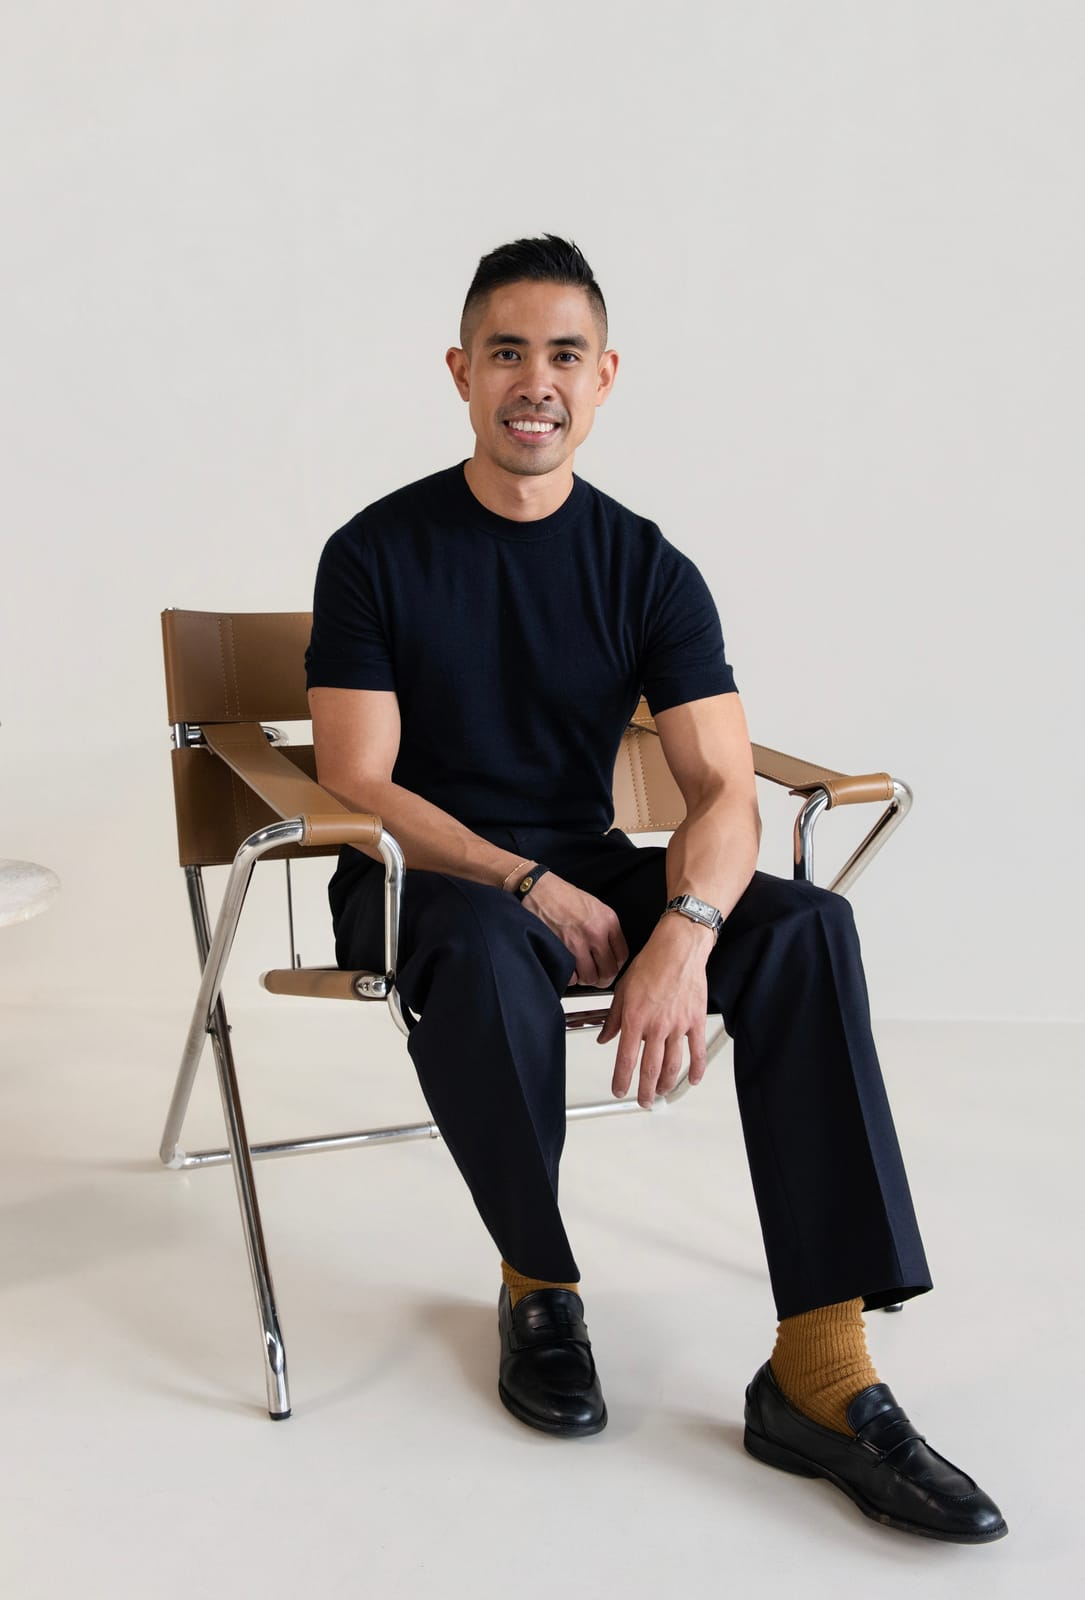
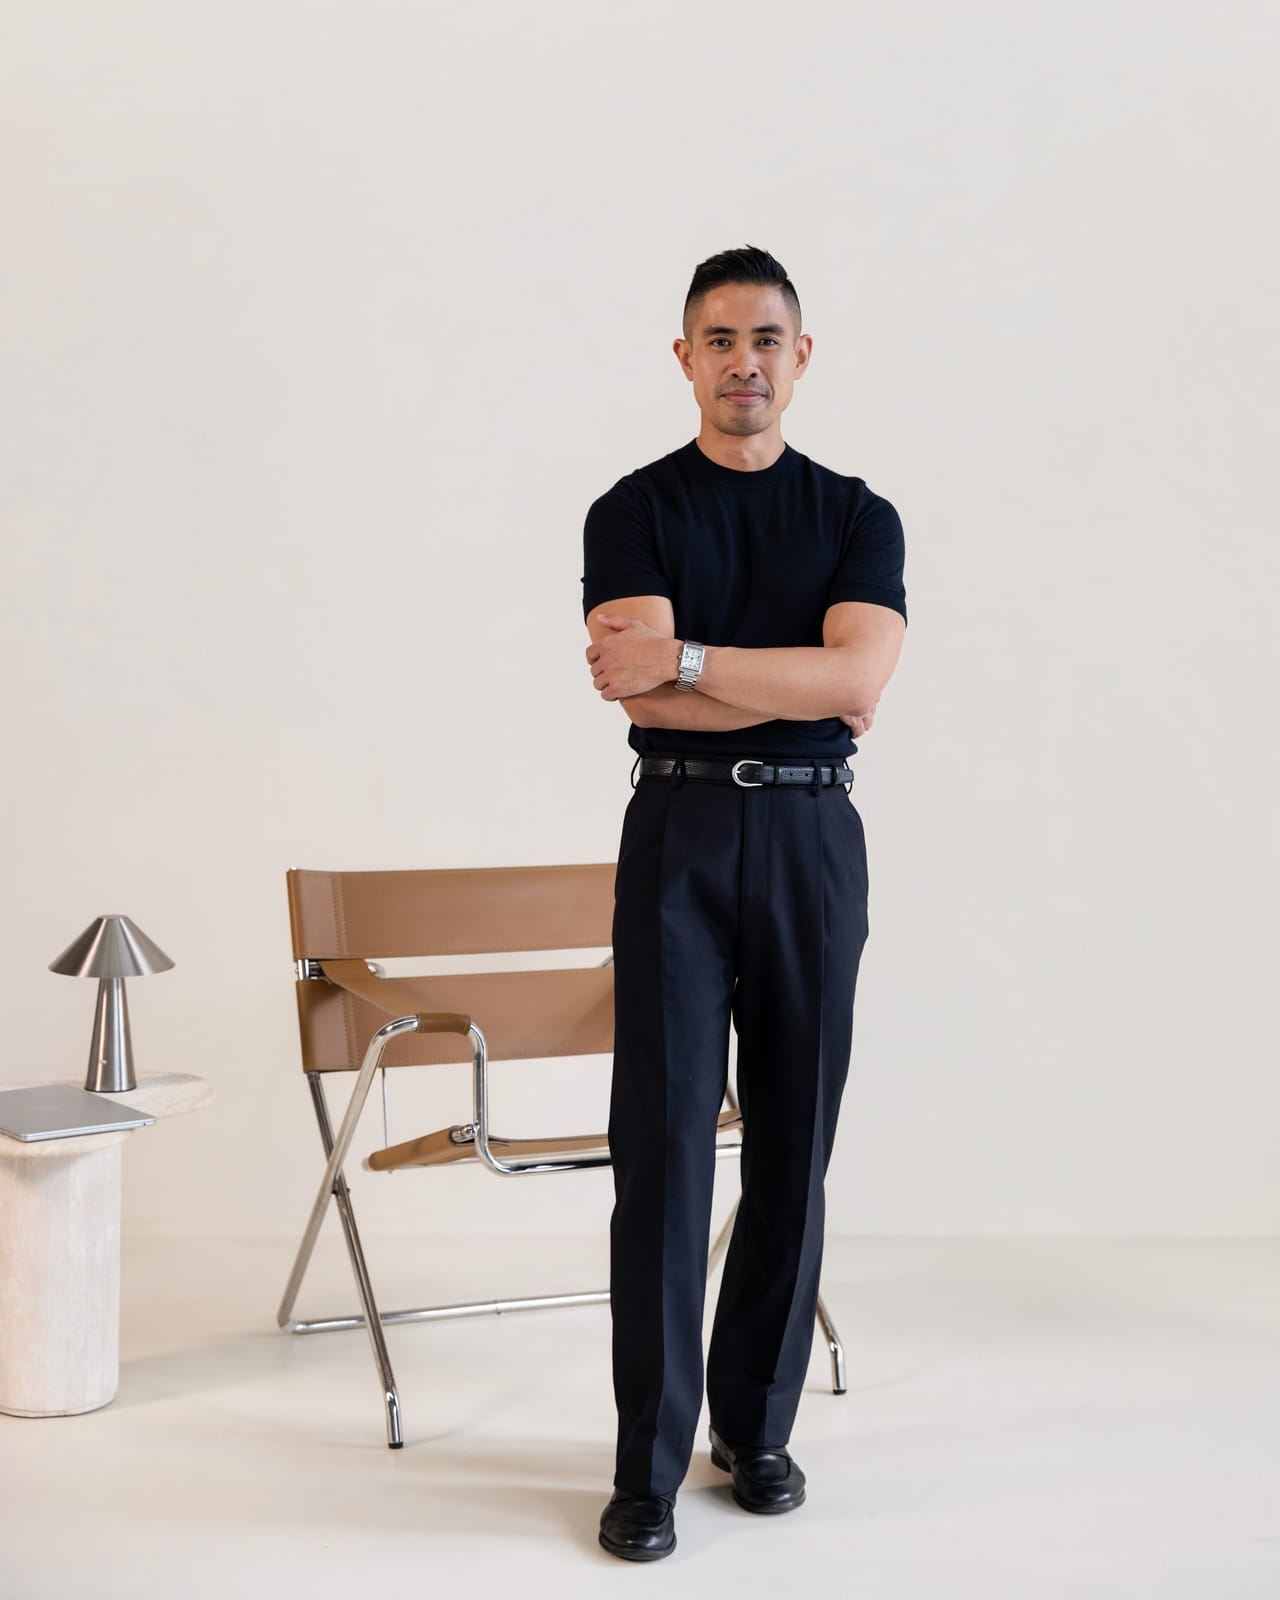
Swap in new founder + testimonials photos; mobile menu Contact
- Replace About "Meet the Founder" (about-top.jpg) and Testimonials
  (trusted-by.jpg) with the new shots; update the About width prop to the
  new aspect; remove the now-unused about-bottom.jpg.
- Navbar: Contact is a plain item in the mobile menu (not a boxed button).

diff --git a/src/components/Navbar.tsx b/src/components/Navbar.tsx
@@ -85,7 +85,7 @@ export default function Navbar() {
         <div className="border-t border-olive/15 bg-cream/95 backdrop-blur md:hidden">
           <ul className="mx-auto max-w-6xl px-6 py-2 font-mono text-sm uppercase tracking-[0.15em] text-brown/80">
             {navLinks.map((link) => (
-              <li key={link.href} className="border-b border-olive/10 last:border-0">
+              <li key={link.href} className="border-b border-olive/10">
                 <a
                   href={link.href}
                   onClick={() => setOpen(false)}
@@ -95,16 +95,16 @@ export default function Navbar() {
                 </a>
               </li>
             ))}
+            <li>
+              <a
+                href="#contact"
+                onClick={() => setOpen(false)}
+                className="block py-3.5 transition-colors hover:text-olive"
+              >
+                Contact
+              </a>
+            </li>
           </ul>
-          <div className="mx-auto max-w-6xl px-6 pb-4">
-            <a
-              href="#contact"
-              onClick={() => setOpen(false)}
-              className="block bg-olive px-5 py-3 text-center font-mono text-xs uppercase tracking-widest text-cream transition-colors hover:bg-olive-dark"
-            >
-              Contact
-            </a>
-          </div>
         </div>
       )}
     </header>

diff --git a/src/components/About.tsx b/src/components/About.tsx
@@ -16,7 +16,7 @@ export default function About() {
             <Image
               src="/about-top.jpg"
               alt="JC Yap, Founder of SquareOne"
-              width={1085}
+              width={1280}
               height={1600}
               sizes="(max-width: 640px) 100vw, 40vw"
               className="h-auto w-full object-cover"